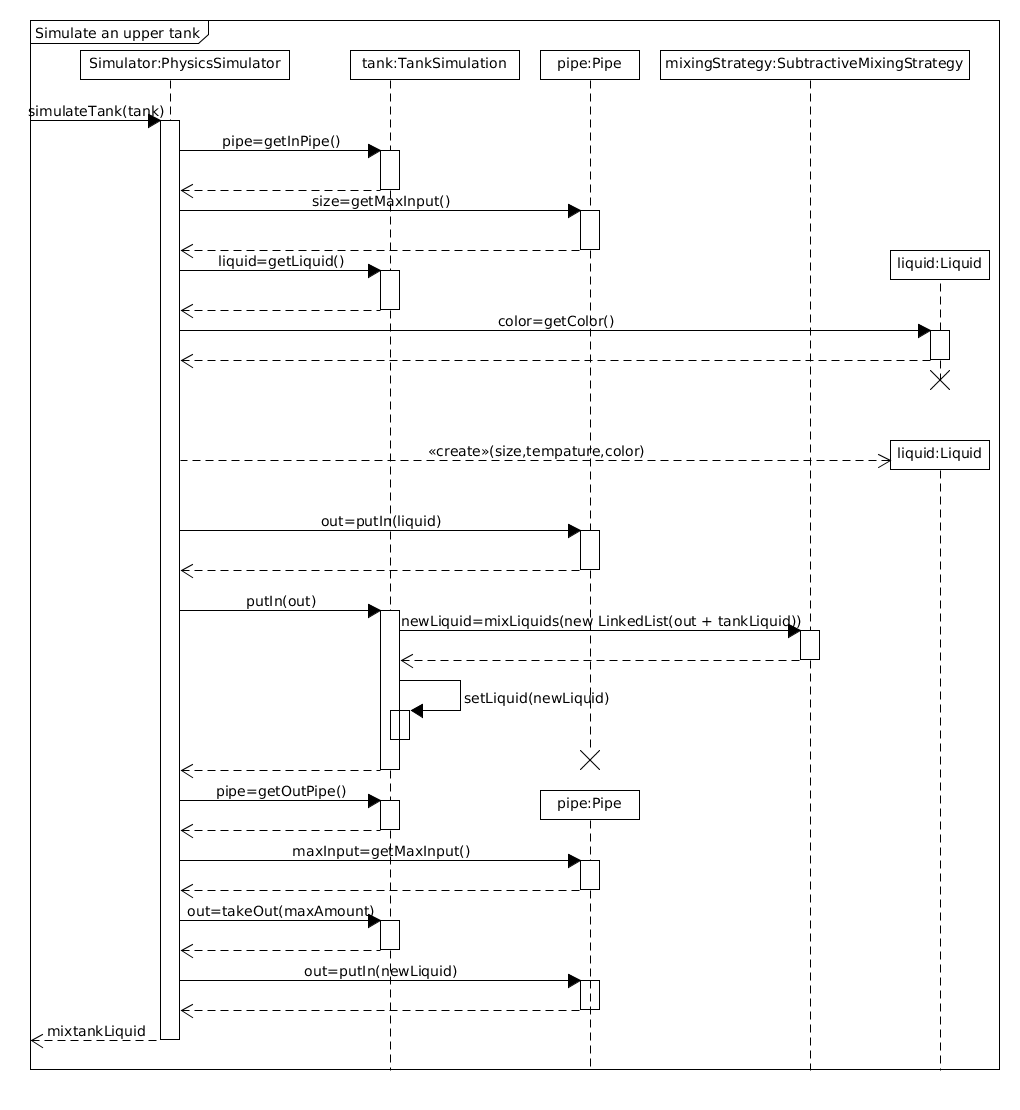
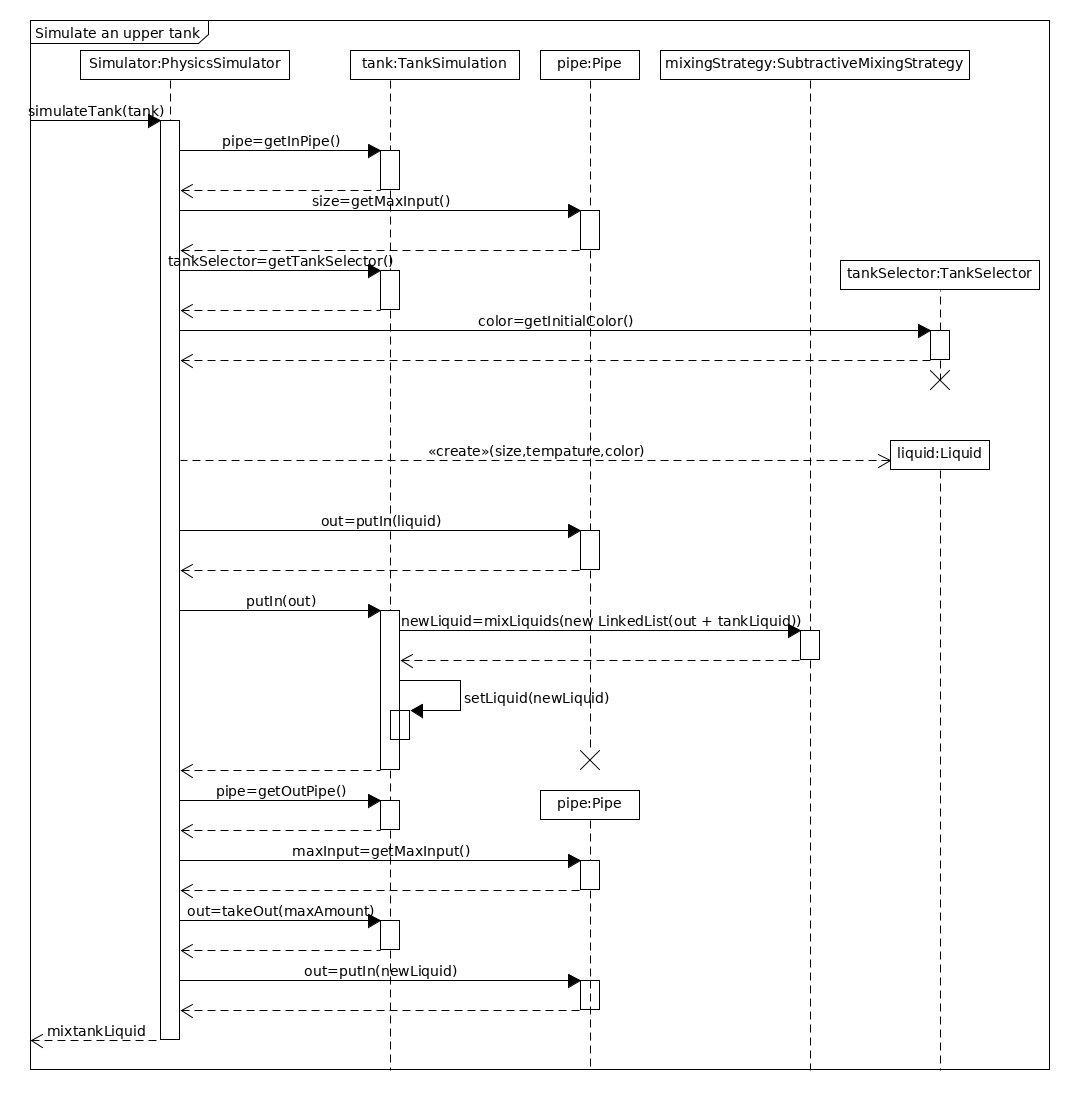
[Design] Get color of upper tank with getInitialColor()

diff --git a/docs/Design.tex b/docs/Design.tex
@@ -126,7 +126,7 @@ Objekte erzeugt und gleich wieder dereferenziert, was diesen Rahmen sprengen wü
 Dies ist die Simulation eines der oberen Tanks. Für die vollständige Simulation muss \emph{simulateTank()} für jeden Tank aufgerufen
 und die Rückgabewerte zum Mixtank hinzugefügt werden. Zuerst erfragt die Simulation beim Tank die Leitung, die zum Tank hinführt, und ermittelt
 mit \emph{getMaxInput()} die maximale Durchflussmenge. Anschließend muss berechnet werden, welche Farbe die Flüssigkeit haben soll, die in den Tank
-hinein fließt. Da sich die Farbe der oberen Tanks aber nie ändert, kann man einfach die Flüssigkeit im Tank holen und dessen Farbe bestimmen.
+hinein fließt. Dazu wird der TankSelector Enum-Wert vom Tank geholt, und damit die Funktion \emph{getInitialColor()} aufgerufen, die die initiale Farbe der Tanks definiert.
 Dann kann ein neues \emph{Liquid} Objekt erstellt werden, das so groß ist, dass es gerade noch in die Leitung passt. Mittels \emph{putIn()} wird es
 in die Leitung gesteckt. Der Rückgabewert von \emph{putIn()} ist die Flüssigkeit, die am anderen Ende der Leitung herauskommt. Diese wird dann in den
 Tank eingefügt. Dazu verwendet der Tank eine \emph{SubtractiveMixingStrategy}, um die Farben und Temperaturen zu mischen. Nachdem die Flüssigkeiten
